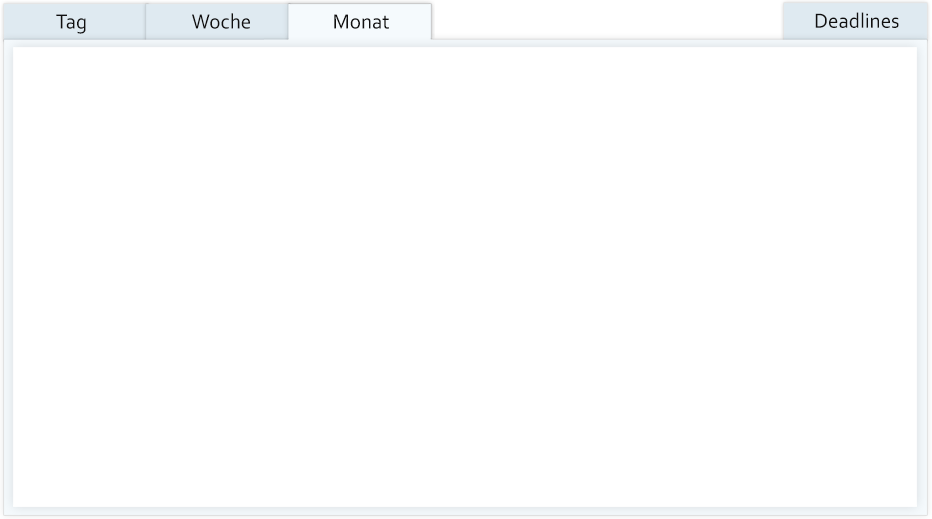
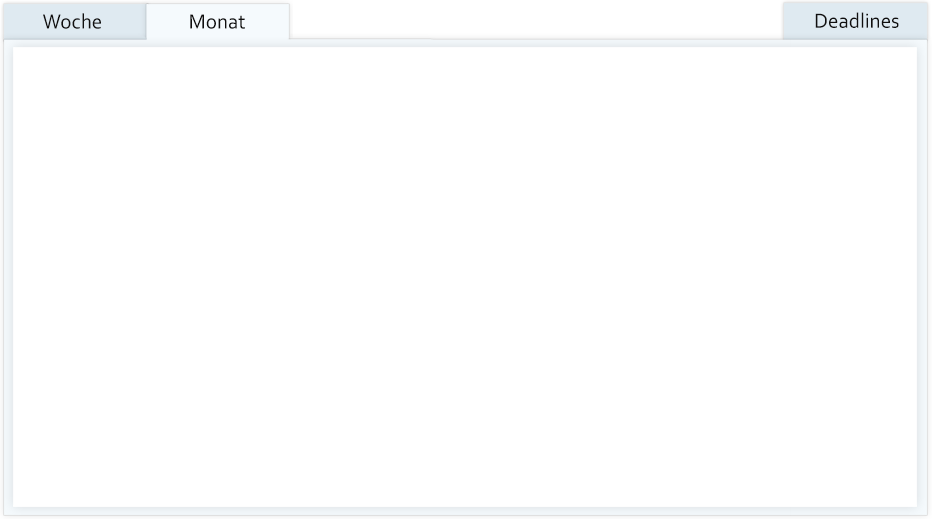
kalender tag tab gelöscht

Changed region(s): [[0.1556, 0.0, 0.3112, 0.0925], [0.3423, 0.0308, 0.4356, 0.0617], [0.0311, 0.0308, 0.1245, 0.0617]]

diff --git a/src/main/java/at/ac/tuwien/sepm/ui/CalPanel.java b/src/main/java/at/ac/tuwien/sepm/ui/CalPanel.java
@@ -14,7 +14,6 @@ public class CalPanel extends StandardInsidePanel {
     private JButton tab1;
     private JButton tab2;
     private JButton tab3;
-    private JButton tab4;
     private JButton fwd;
     private JButton bwd;
     private JButton importBtn;
@@ -112,13 +111,11 @@ public class CalPanel extends StandardInsidePanel {
         tab1 = new JButton();
         tab2 = new JButton();
         tab3 = new JButton();
-        tab4 = new JButton();
 
         ArrayList<JButton> tabs = new ArrayList<JButton>();
         tabs.add(tab1);
         tabs.add(tab2);
         tabs.add(tab3);
-        tabs.add(tab4);
 
         tab1.setBounds(97,63,142,36);
         tab1.addActionListener(new ActionListener() {
@@ -138,7 +135,7 @@ public class CalPanel extends StandardInsidePanel {
             }
         });
 
-        tab3.setBounds(97+142*2,63,142,36);
+        tab3.setBounds(878,63,142,36);
         tab3.addActionListener(new ActionListener() {
             @Override
             public void actionPerformed(ActionEvent actionEvent) {
@@ -147,16 +144,7 @@ public class CalPanel extends StandardInsidePanel {
             }
         });
 
-        tab4.setBounds(878,63,142,36);
-        tab4.addActionListener(new ActionListener() {
-            @Override
-            public void actionPerformed(ActionEvent actionEvent) {
-                changeImage(4);
-                //todo
-            }
-        });
-
-        for (int i = 0; i < 4; i++) {
+        for (int i = 0; i < 3; i++) {
             tabs.get(i).setCursor(new Cursor(Cursor.HAND_CURSOR));
             tabs.get(i).setOpaque(false);
             tabs.get(i).setContentAreaFilled(false);
@@ -169,20 +157,16 @@ public class CalPanel extends StandardInsidePanel {
         try{
             switch(nmb) {
                 case 1:
-                    image = ImageIO.read(new File("src/main/resources/img/calt.png"));
-                    toggleComponents("show");
-                    break;
-                case 2:
                     image = ImageIO.read(new File("src/main/resources/img/calw.png"));
                     toggleComponents("show");
                     break;
-                case 3:
+                case 2:
                     image = ImageIO.read(new File("src/main/resources/img/calm.png"));
                     toggleComponents("show");
                     break;
-                case 4:
+                case 3:
                     image = ImageIO.read(new File("src/main/resources/img/cald.png"));
-                    toggleComponents("hide");
+                    toggleComponents("show");
                     break;
                 default:
                     break;
